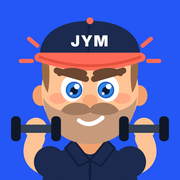
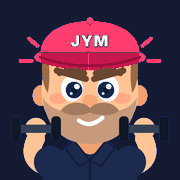
Add files via upload

diff --git a/index.html b/index.html
@@ -3,8 +3,8 @@
 <head>
 <meta charset="utf-8">
 <meta name="viewport" content="width=device-width, initial-scale=1, viewport-fit=cover">
-<meta name="theme-color" content="#F6F7F9" media="(prefers-color-scheme: light)">
-<meta name="theme-color" content="#0B0F1A" media="(prefers-color-scheme: dark)">
+<meta name="theme-color" content="#F1F2F7" media="(prefers-color-scheme: light)">
+<meta name="theme-color" content="#0D1020" media="(prefers-color-scheme: dark)">
 <meta name="color-scheme" content="light dark">
 <meta name="apple-mobile-web-app-capable" content="yes">
 <meta name="mobile-web-app-capable" content="yes">
@@ -889,6 +889,29 @@ svg.chart .wb.n.c-good { fill: #17A06A; }
 .tmc .dot { display: inline-block; width: 9px; height: 9px; border-radius: 50%; background: var(--acc); margin-right: 6px; }
 @media (prefers-reduced-motion: no-preference) { .tmc.run .dot { animation: tmpulse 1.4s ease-in-out infinite; } }
 @keyframes tmpulse { 50% { opacity: .25; } }
+
+/* ===== BRAND: INK & WATERMELON. Ink and fog set the mood, watermelon is the accent. ===== */
+:root { --bg: #F1F2F7; --surface: #FFFFFF; --ink: #13172A; --muted: #686E85; --line: #E3E5EE;
+  --brand: #151A33; --onbrand: #FFFFFF; --wm: #FF3D6E;
+  --acc: #EE2A62; --acc2: #4655C8; --acc-dk: #D81B55; --acc2-dk: #3442A8; --onacc: #FFFFFF;
+  --str: #EE2A62; --car: #4655C8; --mob: #0B7A4F; --gold: #EE2A62;
+  --tint: #FFEAF0; --tint-line: #FFC7D5; --acc-a: rgba(238, 42, 98, .14); }
+@media (prefers-color-scheme: dark) { :root:not([data-theme="light"]) { --bg: #0D1020; --surface: #181C33; --ink: #F2F3F8; --muted: #A6ABC2; --line: #2A2F4A;
+  --brand: #2C3360; --onbrand: #FFFFFF; --wm: #FF5C85;
+  --acc: #FF5C85; --acc2: #8C9BFF; --acc-dk: #FF5C85; --onacc: #13172A; --str: #FF5C85; --car: #8C9BFF; --mob: #34D399; --gold: #FF5C85;
+  --tint: #3A1E2C; --tint-line: #6A2D45; --acc-a: rgba(255, 92, 133, .18); color-scheme: dark; } }
+:root[data-theme="dark"] { --bg: #0D1020; --surface: #181C33; --ink: #F2F3F8; --muted: #A6ABC2; --line: #2A2F4A;
+  --brand: #2C3360; --onbrand: #FFFFFF; --wm: #FF5C85;
+  --acc: #FF5C85; --acc2: #8C9BFF; --acc-dk: #FF5C85; --onacc: #13172A; --str: #FF5C85; --car: #8C9BFF; --mob: #34D399; --gold: #FF5C85;
+  --tint: #3A1E2C; --tint-line: #6A2D45; --acc-a: rgba(255, 92, 133, .18); color-scheme: dark; }
+.wcard.str .wct { background: var(--brand); color: var(--onbrand); }
+.wcard.str.full .wct, .wcard.str .wct b { color: var(--onbrand); }
+.daybtn.wcard[aria-pressed="true"] { border-color: var(--wm); box-shadow: 0 6px 16px var(--acc-a); }
+.wcard .dbar i, .daybtn.wcard[aria-pressed="true"] .dbar i { background: var(--wm); }
+.mile.m-blue { background: var(--acc-a); color: var(--acc-dk); }
+.lhero { background: linear-gradient(135deg, var(--brand), #3A2350); }
+.fl-supp { --c: #4655C8; --d: #3442A8; }
+.flegend .lp { background: linear-gradient(90deg, #D9432E, #B26F00, #0F8A5A, #6B4DF0, #4655C8, #C2257A); }
 </style>
 </head>
 <body>
@@ -4011,7 +4034,7 @@ svg.chart .wb.n.c-good { fill: #17A06A; }
   function confetti(n) {
     try {
       if (!fxOn()) return;
-      var l = fxLayer(), cols = ['#2457F5', '#FF6B57', '#F5B301', '#2BB673', '#8B5CF6', '#FFFFFF'];
+      var l = fxLayer(), cols = ['#FF3D6E', '#151A33', '#F5B301', '#2BB673', '#8B5CF6', '#FFFFFF'];
       if (l.childElementCount > 120) return;
       for (var i = 0; i < n; i++) {
         var p = document.createElement('i');
@@ -4041,7 +4064,7 @@ svg.chart .wb.n.c-good { fill: #17A06A; }
         s.style.setProperty('--dx', Math.round(Math.cos(a) * d) + 'px');
         s.style.setProperty('--dy', Math.round(Math.sin(a) * d) + 'px');
         if (i % 3 === 1) s.style.background = '#FF6B57';
-        if (i % 3 === 2) s.style.background = '#2457F5';
+        if (i % 3 === 2) s.style.background = '#FF3D6E';
         l.appendChild(s);
         fxDrop(s, 900);
       }

diff --git a/sw.js b/sw.js
@@ -1,5 +1,5 @@
 // Jym service worker: opens instantly and works offline.
-var CACHE = 'jym-v73';
+var CACHE = 'jym-v74';
 var FILES = ['./', 'index.html', 'manifest.webmanifest', 'icon-192.png', 'icon-512.png', 'apple-touch-icon.png'];
 self.addEventListener('install', function (e) {
   e.waitUntil(caches.open(CACHE).then(function (c) { return c.addAll(FILES); }).then(function () { return self.skipWaiting(); }));
